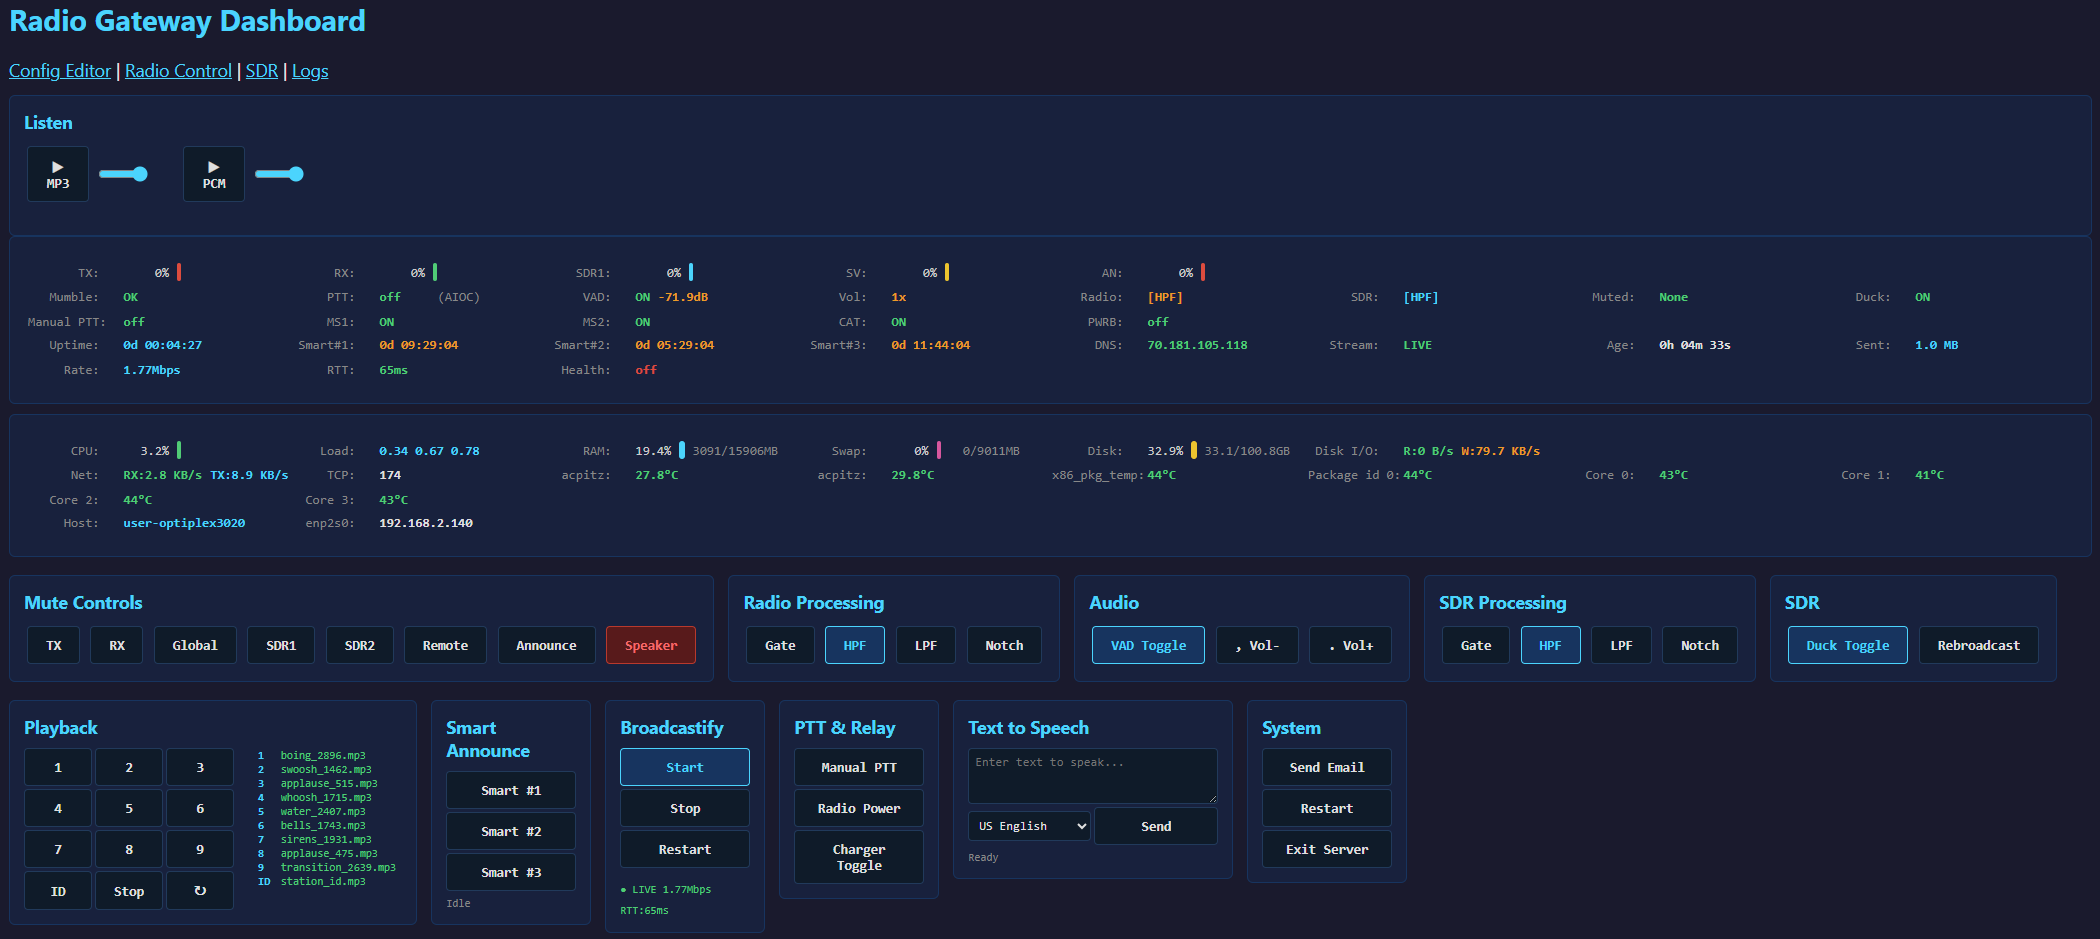
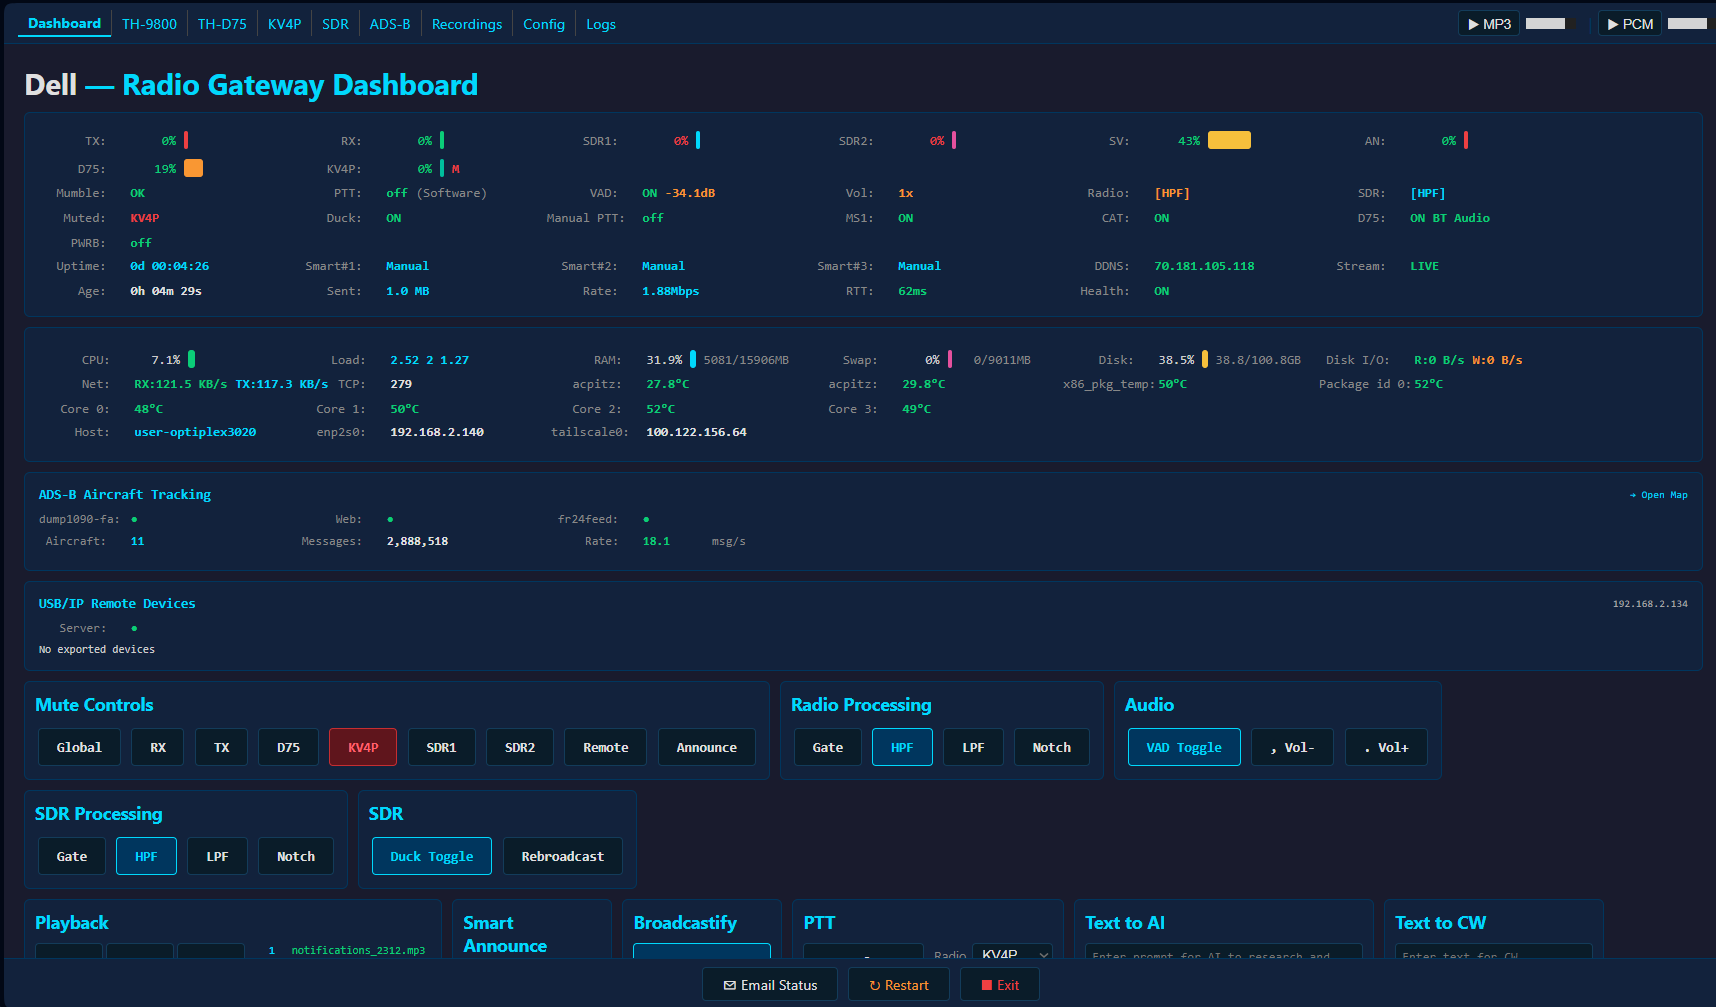
Add screenshots of all web UI pages to README
Adds/updates 9 screenshots covering every page: Dashboard, TH-9800,
TH-D75, KV4P HT, SDR (RSPduo dual tuner), ADS-B, Recordings, Config,
and Logs. Adds TH-D75, KV4P, ADS-B, and Recordings sections to the
Web UI description in the README.

diff --git a/README.md b/README.md
@@ -505,7 +505,7 @@ WEB_THEME = blue
 - 7 dark color themes with consistent accent colors across all pages
 
 ![Config Editor](docs/img/config-editor.png)
-*Configuration editor with collapsible sections, Save & Restart, and Exit Server controls.*
+*Configuration editor with collapsible sections grouped alphabetically, Save & Restart, and Exit Server controls.*
 
 **Live Dashboard** (`http://<gateway-ip>:8080/dashboard`):
 - Real-time gateway status updated every second via JSON polling
@@ -531,7 +531,7 @@ WEB_THEME = blue
 - **Responsive layout** — control buttons wrap on narrow/mobile screens instead of overflowing off-screen
 
 ![Live Dashboard](docs/img/dashboard.png)
-*Live dashboard showing gateway status, audio level bars, mute/processing/playback controls, and the browser audio player.*
+*Live dashboard showing gateway status, audio level bars, system info, mute/processing/playback controls, and the browser audio player.*
 
 **TH-9800 Radio Control** (`http://<gateway-ip>:8080/radio`):
 - Full front-panel replica of the TH-9800 dual-band radio in the browser
@@ -541,8 +541,27 @@ WEB_THEME = blue
 - PTT toggle button, TCP/Serial connect/disconnect, RTS control
 - Browser microphone PTT (MIC PTT button)
 
-![Radio Control](docs/img/radio-control.png)
-*TH-9800 radio control page with dual VFO, signal meters, and full button panel.*
+![TH-9800 Control](docs/img/radio-th9800.png)
+*TH-9800 radio control page with dual VFO display, signal meters, full button panel, and browser microphone PTT.*
+
+**TH-D75 Radio Control** (`http://<gateway-ip>:8080/d75`):
+- Full control page for the Kenwood TH-D75 dual-band D-STAR HT
+- GPS status, D-STAR call routing, band A / band B VFO display
+- Memory channel browser, squelch, volume, bandwidth, and power controls
+- Serial connect/disconnect, baud rate selector, GPS NMEA passthrough
+
+![TH-D75 Control](docs/img/radio-thd75.png)
+*TH-D75 control page showing band A/B VFOs, memory channels, and D-STAR status.*
+
+**KV4P HT Control** (`http://<gateway-ip>:8080/kv4p` — shown on dashboard nav when enabled):
+- Control page for the KV4P HT software-defined ham radio module (SA818/DRA818)
+- Live RX frequency display with S-meter and audio level bar
+- Frequency / TX offset, squelch, volume, power, bandwidth (wide/narrow)
+- CTCSS TX and RX tone selectors, PTT button, test tone buttons
+- Firmware version and module type displayed; Reconnect button
+
+![KV4P HT Control](docs/img/radio-kv4p.png)
+*KV4P HT control page showing 146.400 MHz receive with S-meter, CTCSS, and all radio parameters.*
 
 **SDR Control** (`http://<gateway-ip>:8080/sdr`):
 - Full SDR receiver control via RTLSDR-Airband + SoapySDR
@@ -558,7 +577,25 @@ WEB_THEME = blue
 - Settings persist across gateway restarts
 
 ![SDR Control](docs/img/sdr-control.png)
-*SDR control page tuned to 446.760 MHz NFM with gain, squelch, audio filters, and channel memory.*
+*SDR control page — RSPduo dual tuner with Tuner 1 (446.750 MHz NFM) and Tuner 2 (446.640 MHz NFM) running simultaneously.*
+
+**ADS-B Aircraft Tracking** (`http://<gateway-ip>:8080/aircraft` — when `ENABLE_ADSB = true`):
+- Embedded FlightAware PiAware SkyAware map via lighttpd reverse proxy
+- Live aircraft positions, altitude, speed, heading, and squawk from dump1090-fa
+- Single-port access through the gateway's Cloudflare tunnel — no extra port forwarding needed
+- Dashboard panel showing aircraft count, message rate, and service health
+
+![ADS-B Aircraft Tracking](docs/img/adsb.png)
+*ADS-B tracking page showing live aircraft over the Los Angeles area via PiAware SkyAware.*
+
+**Recording Manager** (`http://<gateway-ip>:8080/recordings`):
+- Browse, play, download, and delete recorded audio files
+- Filter by radio source, date, and frequency
+- Bulk select with Select All / Select None; Download Selected or Delete Selected
+- In-browser playback for any recording
+
+![Recording Manager](docs/img/recordings.png)
+*Recording manager with radio/date/frequency filters and bulk download/delete controls.*
 
 **Gateway Logs** (`http://<gateway-ip>:8080/logs`):
 - Live scrolling log viewer with auto-scroll toggle
@@ -567,7 +604,7 @@ WEB_THEME = blue
 - Audio Trace and Watchdog Trace buttons
 
 ![Gateway Logs](docs/img/logs.png)
-*Live log viewer showing gateway startup sequence, keyboard controls, and service status.*
+*Live log viewer with regex filter, clear, Audio Trace, and Watchdog Trace controls.*
 
 ### Cloudflare Tunnel
 
